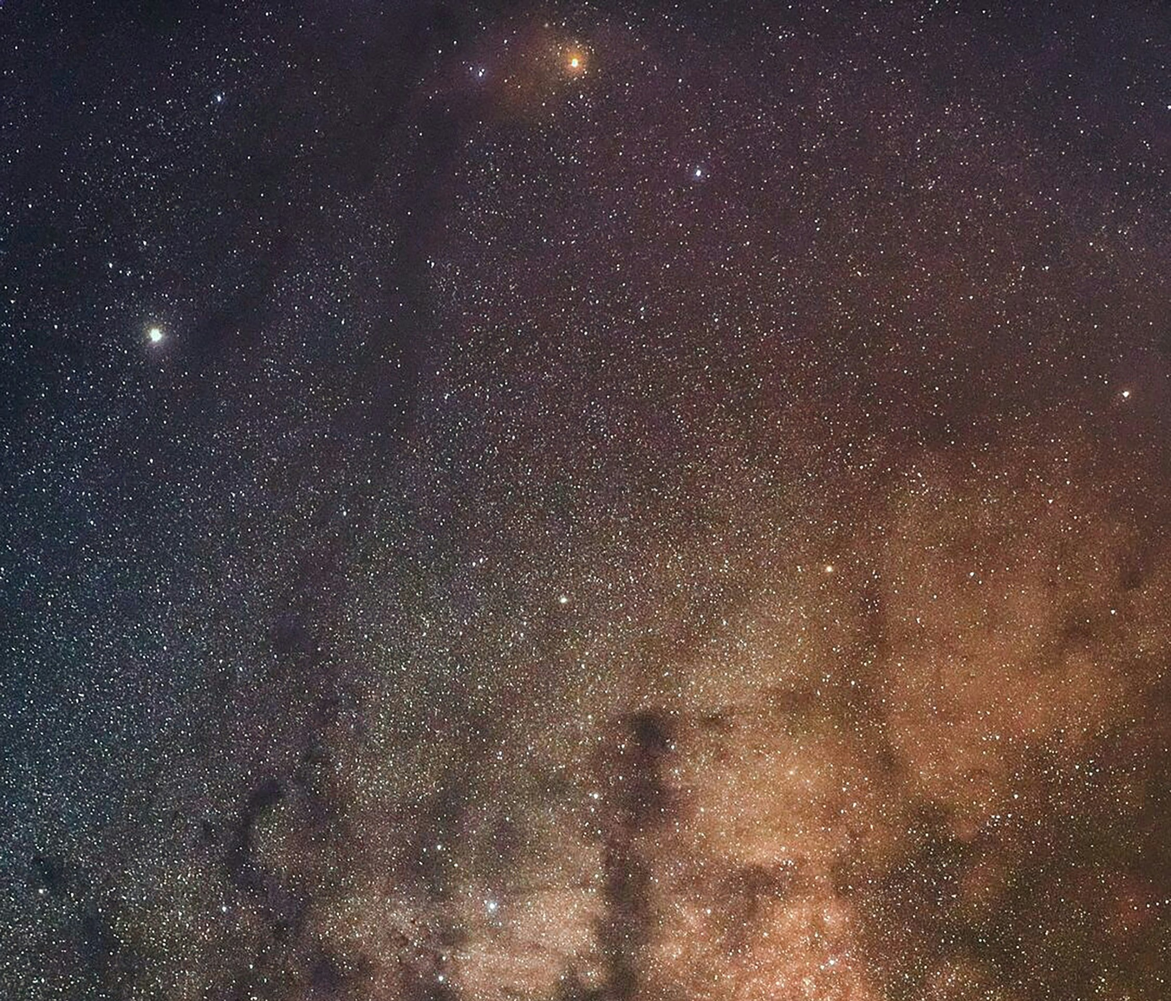
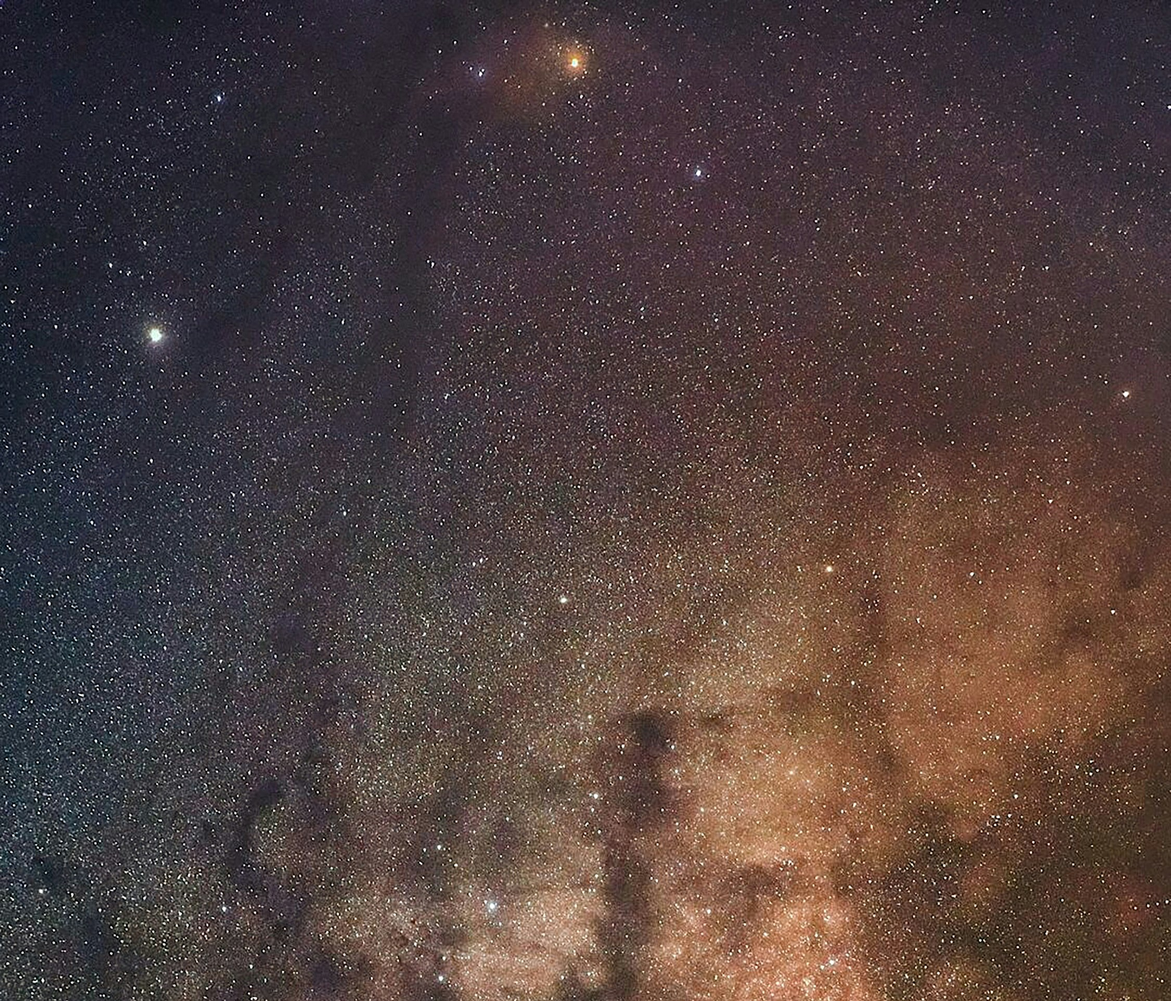
Sharpen the night sky and darken only behind the name
The original photo's stars are soft at full size, so apply a gentle
unsharp mask, and replace the flat dark overlay with a radial one so
the stars around the edges keep their contrast.

diff --git a/styles.css b/styles.css
@@ -290,7 +290,10 @@ html.is-loading .wordmark { visibility: hidden; }
   background-image: url('assets/night-sky.jpg');
   background-position: center top;
 }
-[data-theme="dark"] .preloader__tint { background: rgba(13, 17, 23, 0.3); }
+/* Darken only behind the name, so the stars elsewhere keep their full contrast */
+[data-theme="dark"] .preloader__tint {
+  background: radial-gradient(ellipse 60% 45% at 50% 50%, rgba(13, 17, 23, 0.45), rgba(13, 17, 23, 0) 70%);
+}
 [data-theme="dark"] .intro-name { color: #f2f5f8; }
 
 .intro-name {
